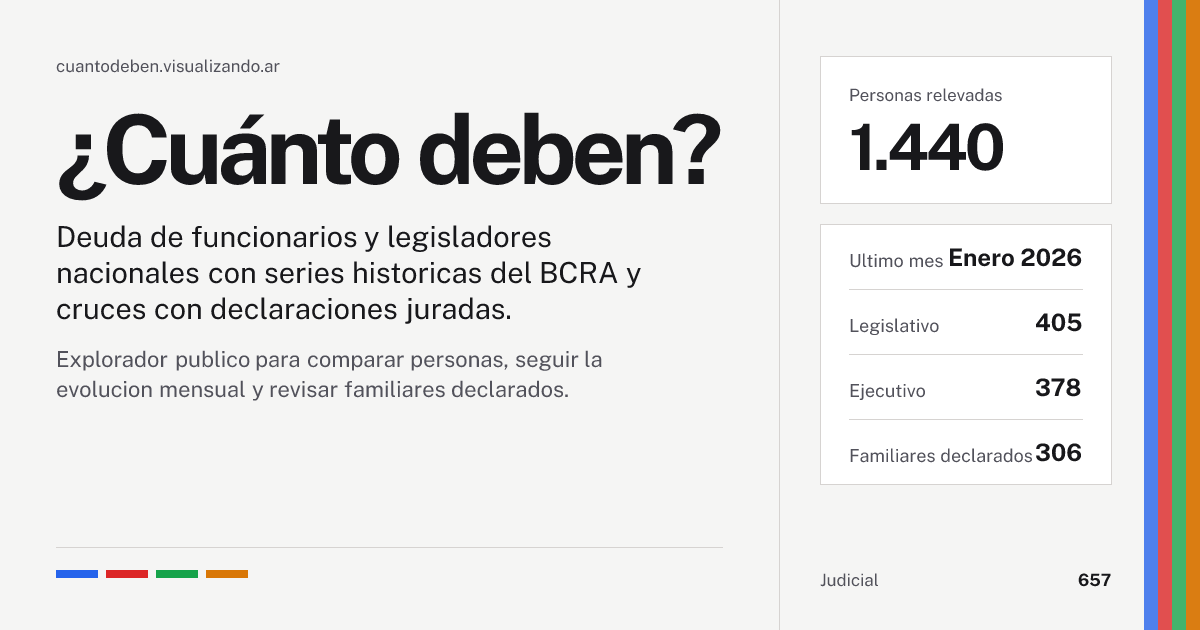
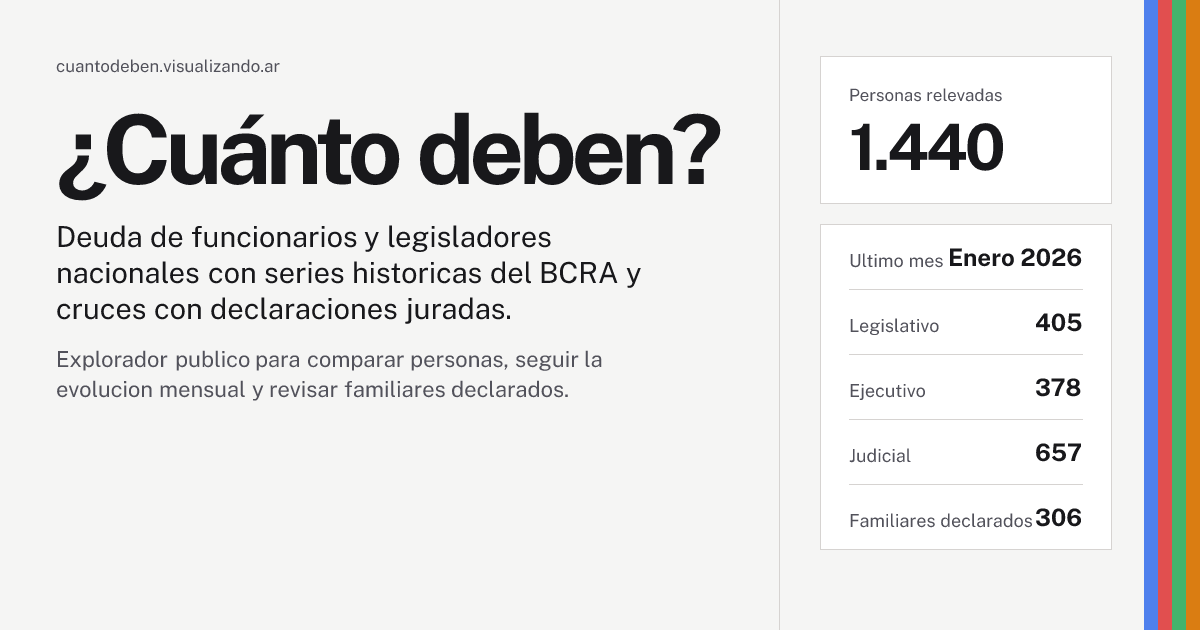
fix: ordenar judicial en el og y limpiar footer

diff --git a/src/App.tsx b/src/App.tsx
@@ -168,56 +168,6 @@ export default function App() {
           )}
         </section>
       </main>
-
-      <footer className="border-t border-gray-200 bg-white">
-        <div className="mx-auto grid w-full max-w-6xl gap-6 px-6 py-10 text-sm text-gray-700 md:grid-cols-2">
-          <div>
-            <h2 className="mb-2 text-base font-bold text-gray-900">About</h2>
-            <p className="leading-relaxed">
-              Proyecto civico para facilitar la lectura publica de datos financieros de funcionarios y legisladores,
-              con foco en transparencia y comparacion historica.
-            </p>
-          </div>
-          <div className="md:text-right">
-            <h2 className="mb-2 text-base font-bold text-gray-900">Repositorio</h2>
-            <a
-              href="https://github.com/seppo0010/gastos-congresistas"
-              target="_blank"
-              rel="noreferrer"
-              className="font-semibold text-blue-700 underline-offset-4 transition hover:text-blue-800 hover:underline"
-            >
-              github.com/seppo0010/gastos-congresistas
-            </a>
-            <div className="mt-3 space-y-1 text-xs text-gray-600">
-              <p>
-                Autor: Sebastian Waisbrot (
-                <a
-                  href="https://github.com/seppo0010"
-                  target="_blank"
-                  rel="noreferrer"
-                  className="text-blue-700 underline-offset-4 transition hover:text-blue-800 hover:underline"
-                >
-                  seppo0010
-                </a>
-                )
-              </p>
-              <p>
-                Andres Snitcofsky (diseno, viz y ux):
-                {' '}
-                <a
-                  href="https://visualizando.ar"
-                  target="_blank"
-                  rel="noreferrer"
-                  className="text-blue-700 underline-offset-4 transition hover:text-blue-800 hover:underline"
-                >
-                  visualizando.ar
-                </a>
-              </p>
-            </div>
-            <p className="mt-3 text-xs text-gray-500">Hecho para exploracion publica y periodismo de datos.</p>
-          </div>
-        </div>
-      </footer>
     </div>
   );
 }
